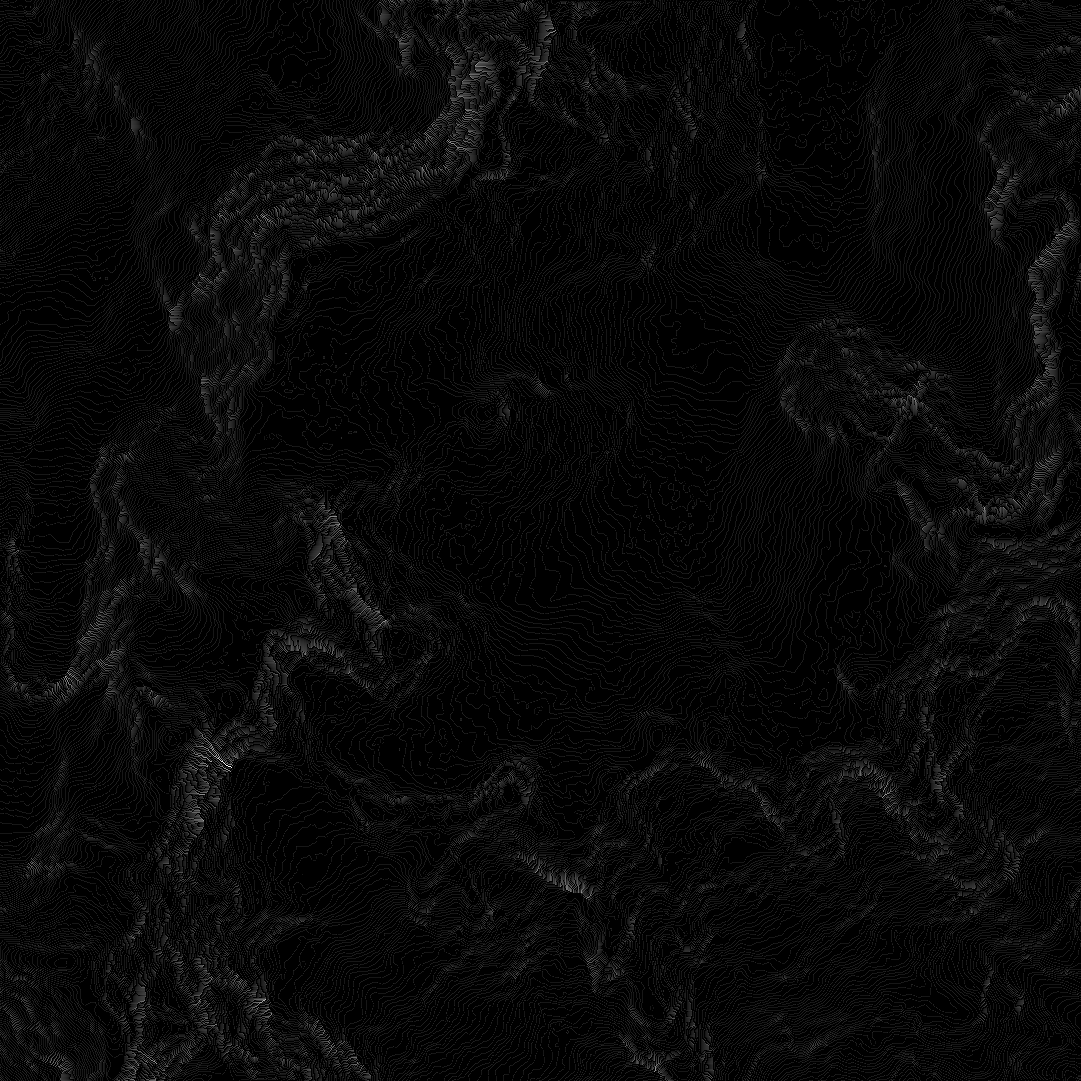
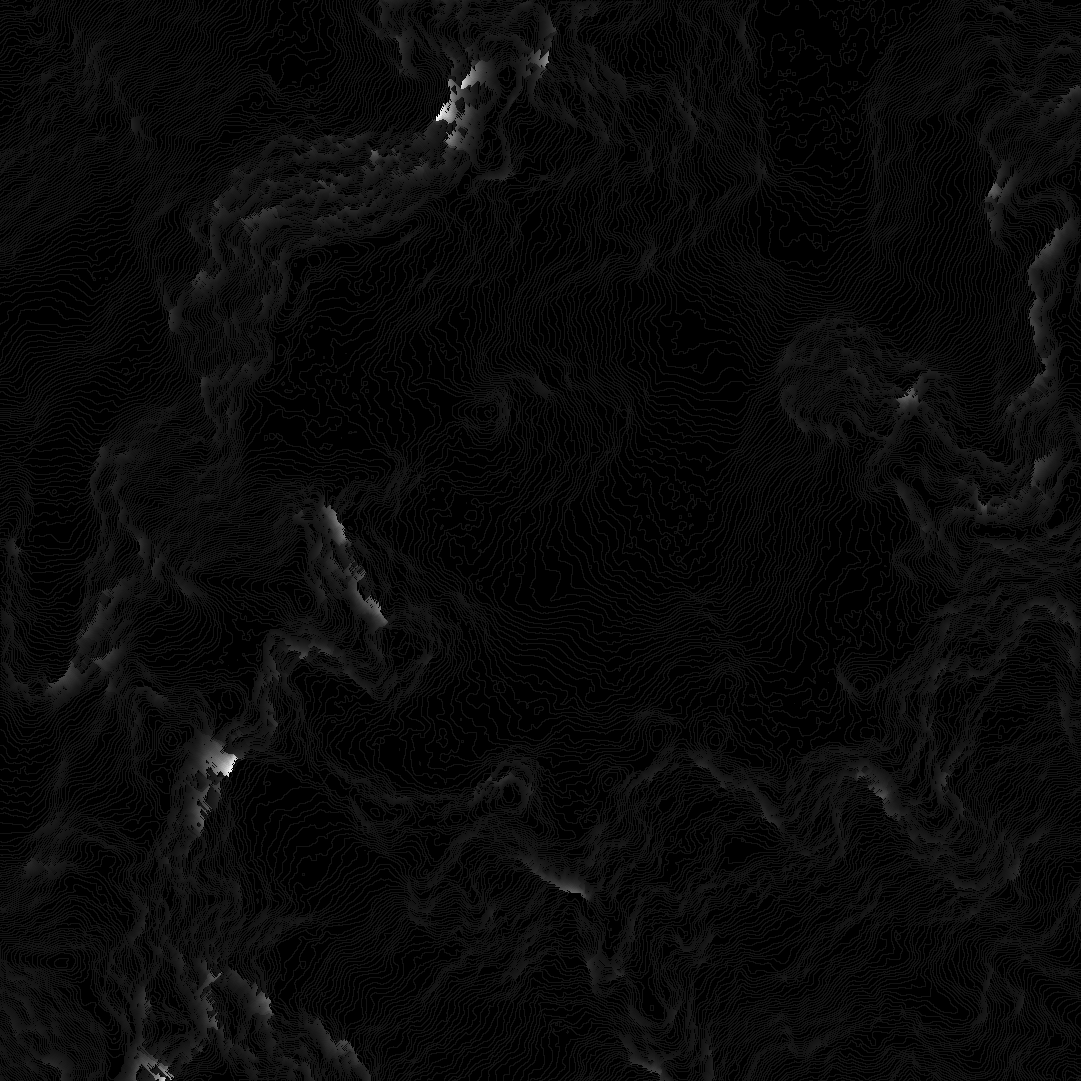
streamarea working

diff --git a/mmv_height_field/heightfield.cpp b/mmv_height_field/heightfield.cpp
@@ -102,7 +102,8 @@ std::vector<ScalarPoint2> HeightField::get_scalar_points() const
 
 }
 
-int HeightField::check_flow_slope(const QPoint& p, QPoint* q, double* h, double* s) const
+const double eps = 0.00001;
+int HeightField::check_flow_slope(const QPoint& p, QPoint* q, double* h, double* s, double* sn) const
 {
     static const double inv_sqrt_2 = 1.0/sqrt(2.0);
     int n = 0;
@@ -111,6 +112,7 @@ int HeightField::check_flow_slope(const QPoint& p, QPoint* q, double* h, double*
     int j = p.y();
     double zp = height(i, j);
 
+    double slopesum = 0.0;
     for (int ii = -1; ii <= 1; ++ii) {
         for (int jj = -1; jj <= 1; ++jj) {
             int k = i + ii;
@@ -118,9 +120,9 @@ int HeightField::check_flow_slope(const QPoint& p, QPoint* q, double* h, double*
             if (!inside(k, l) || (ii == 0 && jj == 0))
                 continue;
 
-            bool diag = ii * jj;
+            bool diag = ii && jj;
             double step = height(k, l) - zp;
-            if (step < 0.0) {
+            if (step < -eps) {
                 q[n] = QPoint(k, l);
                 h[n] = -step;
 
@@ -128,10 +130,16 @@ int HeightField::check_flow_slope(const QPoint& p, QPoint* q, double* h, double*
                 if(diag)
                     s[n] *= inv_sqrt_2;
 
+                slopesum += s[n];
+
                 ++n;
             }
 
         }
+    }
+
+    for (int i = 0; i < n; ++i) {
+        sn[i] = s[i] / slopesum;
     }
 
     return n;
@@ -152,25 +160,32 @@ SF2 HeightField::stream_area() const
     for (int i = points.size() - 1; i >= 0; --i)
     {
         const QPoint& p = points[i].point();
+        const double sp = sa.at(p.x(), p.y());
+
         QPoint q[8];		// struct ?
         double h[8];
         double s[8];
+        double sn[8];
 
-        int n = check_flow_slope(p, q, h, s);
+        int n = check_flow_slope(p, q, h, s, sn);
         if (n == 0)
             continue;
 
         double ss = s[0];
         int k = 0;
-        for (int j = 1; j < n; ++j) {
+        double checksum = 0.0;
+        for (int j = 0; j < n; ++j) {
+            checksum += sn[j];
+            sa.at(q[j].x(), q[j].y()) += sp/sn[j];
             if (s[j] > ss)
             {
                 ss = s[j];
                 k = j;
             }
         }
-        const double sp = sa.at(p.x(), p.y());
-        sa.at(q[k].x(), q[k].y()) += sp;
+        assert(abs(checksum - 1.0) < eps);
+
+//        sa.at(q[k].x(), q[k].y()) += sp;
     }
 
     return sa;

diff --git a/mmv_height_field/sf2.cpp b/mmv_height_field/sf2.cpp
@@ -80,6 +80,10 @@ QImage SF2::save(double contrast) const
 
     for (int i = 0; i < nx; ++i) {
         for (int j = 0; j < ny; ++j) {
+            if (min == max) {
+                image.setPixel(i, j, qRgb(125, 125, 125));
+                continue;
+            }
             float val = at(i, j);
             val = (val - min)/(max - min);
 

diff --git a/mmv_height_field/heightfield.h b/mmv_height_field/heightfield.h
@@ -27,7 +27,7 @@ public:
     QVector3D normal(int i, int j) const;
 
     std::vector<ScalarPoint2> get_scalar_points() const;
-    int check_flow_slope(const QPoint&, QPoint*, double*, double*) const;
+    int check_flow_slope(const QPoint&, QPoint*, double*, double*, double*) const;
 
     SF2 slope_map() const;
     SF2 laplacian_map() const;

diff --git a/mmv_height_field/main.cpp b/mmv_height_field/main.cpp
@@ -32,7 +32,7 @@ int main(int argc, char *argv[])
 
 //    QImage res = hf.slope_map().save();
 //    QImage res = hf.laplacian_map().save();
-    QImage res = hf.stream_area().save(0.4);
+    QImage res = hf.stream_area().save(0.03);
 
     res.save("../images/res.png");
     return 0;
